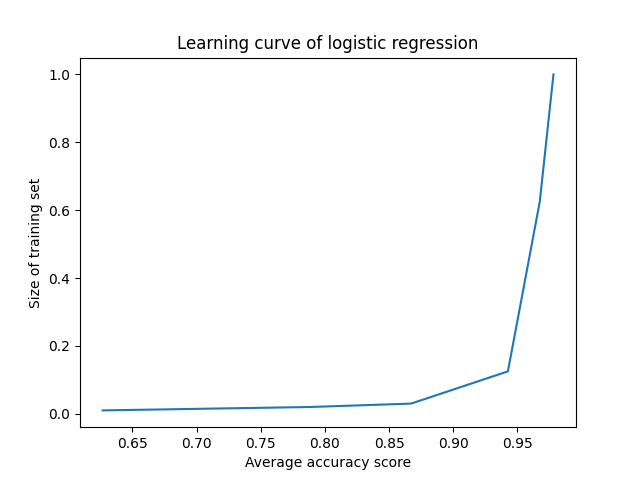
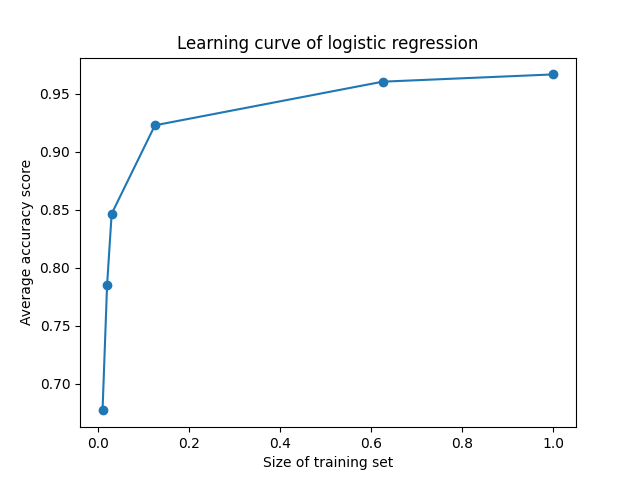
updated logreg to not use random state and updated plot

diff --git a/machine-learning/hw1/logis-reg/log-reg.py b/machine-learning/hw1/logis-reg/log-reg.py
@@ -26,13 +26,12 @@ def get_accuracy(fraction):
     the accuracy score on the test set using logistic regression from
     scratch with no regularization (λ = 0)"""
 
-    # Split the data into training and test sets with 2/3 for training
-    # and 1/3 for testing using random_state as an argument
+    # Split the data into training and test sets
+    # with 2/3 for training and 1/3 for testing
     X_train, X_test, y_train, y_test = train_test_split(
         X,
         Y,
         train_size=fraction * 2 / 3,
-        random_state=42,
     )
 
     # Add a column of ones to the training and test sets for the intercept term
@@ -91,11 +90,11 @@ for fraction in fractions:
     avg_score = np.mean(temp_scores)
     avg_scores.append(avg_score)
 
-# Plot line graph with fractionsas x-axis and average accuracy scores as y-axis
+# Plot line graph with fractions on x-axis and accuracy scores on y-axis
 fig, ax = plt.subplots()
-ax.plot(avg_scores, fractions)
-ax.set_xlabel("Average accuracy score")
-ax.set_ylabel("Size of training set")
+ax.plot(fractions, avg_scores, marker="o")
+ax.set_xlabel("Size of training set")
+ax.set_ylabel("Average accuracy score")
 ax.set_title("Learning curve of logistic regression")
-# plt.savefig("logreg.png")
-plt.show()
+plt.savefig("logreg.png")
+# plt.show()
